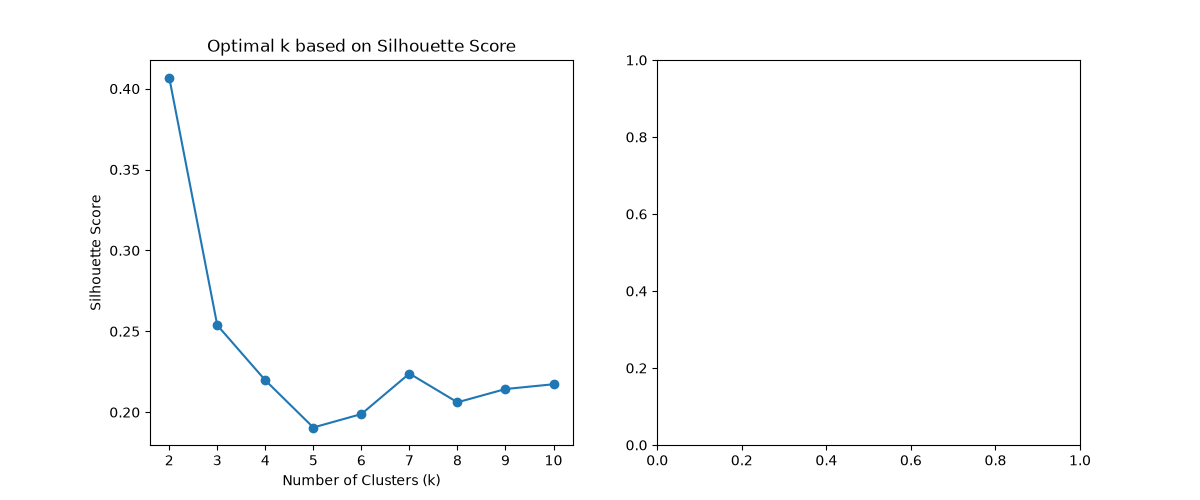
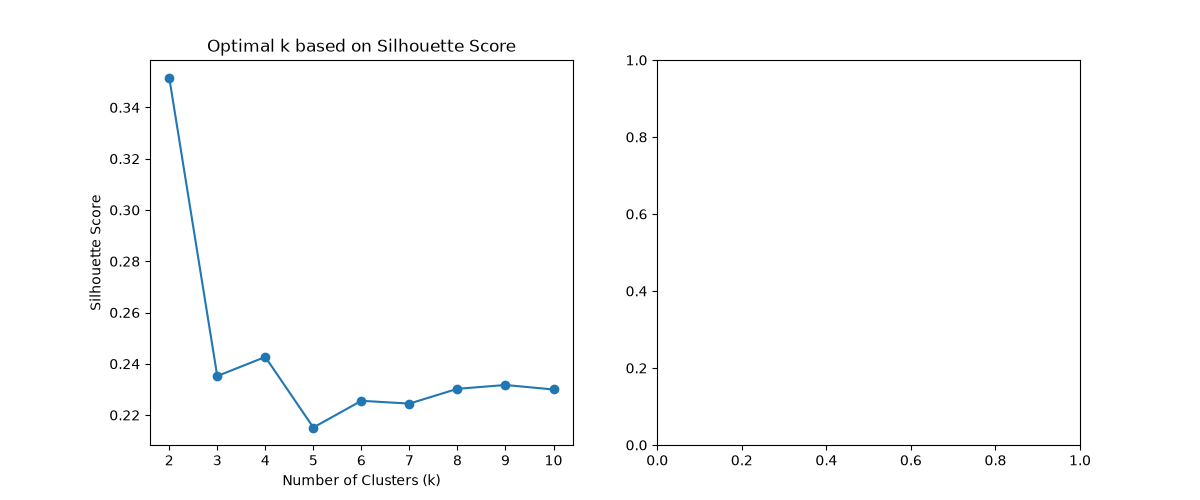
Fix the Streamlit dashboard
The dashboard could not start. It imported `src.recommend`, a module that
does not exist anywhere in the repo, and no function named `recommend` exists
in recommendation_engine.py either. It also read data/players_clustered.parquet,
which no script in this project writes — clustering.py produces
clustered_data.csv — and selected players by positional row index, passing
that integer where a string player_id was expected.

Rewritten against the real engine: build_game_vectors, build_player_vectors
and recommend_for_players, with players selected by id from a dropdown, so
regenerating the dataset cannot silently change which player you are looking
at.

Two tabs matching the project's two halves. Players shows the observable
behaviour, the cluster, the responsible-play flag with the z-scores behind
it, and the recommendations that result. Arena shows the policy comparison,
the learning curves and satisfaction by round.

Neither tab uses st.stop() for its empty-data guard: st.stop() halts the whole
script, so a missing data/ would have blanked the arena tab too. Each tab
renders its own regeneration instructions instead.

Verified by running it: both tabs render, and for a risk-flagged loss-chaser
the banner appears and adjusted_score drops — though 4 of 5 recommendations
are still high-volatility, because the downweight is a soft x0.25 penalty
rather than a filter. The caption says so rather than implying a guarantee.

diff --git a/dashboard/app.py b/dashboard/app.py
@@ -1,17 +1,209 @@
-import streamlit as st
+"""
+Streamlit dashboard: player profiles, recommendations, and the live arena.
+
+Two tabs, matching the project's two halves:
+
+  Players — pick a player, see the behaviour the model actually observes,
+            their cluster, whether the responsible-play model flagged them,
+            and what the cosine engine recommends as a result.
+  Arena   — the online half: how the adaptive recommender compares with its
+            baselines when a population of learning agents plays the live
+            slot machine.
+
+Each tab degrades on its own if the data behind it hasn't been generated —
+deliberately not via st.stop(), which halts the whole script and would blank
+the other tab too.
+
+Run from the repo root:  streamlit run dashboard/app.py
+"""
+
+from __future__ import annotations
+
+import sys
+from pathlib import Path
+
 import pandas as pd
-from recommend import recommend
+import streamlit as st
+
+# src/ modules import each other flatly (`from schema import ...`), so src/
+# itself has to be importable, not just the repo root.
+_ROOT = Path(__file__).resolve().parent.parent
+sys.path.insert(0, str(_ROOT / "src"))
+
+from recommendation_engine import (  # noqa: E402
+    build_game_vectors,
+    build_player_vectors,
+    recommend_for_players,
+)
+
+DATA = _ROOT / "data"
+ARENA = DATA / "arena"
+IMG = _ROOT / "docs" / "img"
+
+st.set_page_config(page_title="Player Behaviour Explorer", layout="wide")
+
+
+@st.cache_data
+def load_offline() -> dict[str, pd.DataFrame] | None:
+    """Everything the offline pipeline writes. None if it hasn't run."""
+    required = ["games.csv", "sessions.csv", "player_features_raw.csv"]
+    if not all((DATA / f).exists() for f in required):
+        return None
+    out = {name.removesuffix(".csv"): pd.read_csv(DATA / name) for name in required}
+    for optional in ["player_risk.csv", "clustered_data.csv", "player_embeddings.csv"]:
+        if (DATA / optional).exists():
+            out[optional.removesuffix(".csv")] = pd.read_csv(DATA / optional)
+    return out
+
+
+@st.cache_data
+def load_arena() -> dict[str, pd.DataFrame] | None:
+    if not (ARENA / "summary.csv").exists():
+        return None
+    out = {"summary": pd.read_csv(ARENA / "summary.csv")}
+    for optional in ["recommendations.csv", "sessions.csv"]:
+        if (ARENA / optional).exists():
+            out[optional.removesuffix(".csv")] = pd.read_csv(ARENA / optional)
+    return out
+
+
+def render_players(data: dict[str, pd.DataFrame]) -> None:
+    features = data["player_features_raw"]
+    risk = data.get("player_risk")
+    clusters = data.get("clustered_data")
+
+    # Selected by player_id, not by row number: the ids are strings, and a
+    # positional index silently means a different player whenever the dataset
+    # is regenerated.
+    personas = sorted(features["persona_id"].unique())
+    chosen = st.sidebar.selectbox("Filter by persona", ["(all)"] + personas)
+    pool = features if chosen == "(all)" else features[features.persona_id == chosen]
+
+    if risk is not None and st.sidebar.checkbox("Only risk-flagged players", value=False):
+        pool = pool[pool.player_id.isin(set(risk.loc[risk.risk_flag, "player_id"]))]
+
+    if pool.empty:
+        st.info("No players match that filter.")
+        return
+
+    player_id = st.sidebar.selectbox("Player", pool["player_id"].tolist())
+    top_n = st.sidebar.slider("Recommendations to show", 3, 10, 5)
+
+    row = features.set_index("player_id").loc[player_id]
+    has_risk = risk is not None and player_id in set(risk.player_id)
+    is_flagged = bool(risk.set_index("player_id").loc[player_id, "risk_flag"]) if has_risk else False
+
+    left, right = st.columns(2)
+
+    with left:
+        st.subheader("Profile")
+        cols = st.columns(3)
+        cols[0].metric("Persona", row["persona_id"])
+        cols[1].metric("Sessions", int(row["n_sessions"]))
+        if clusters is not None and player_id in set(clusters.player_id):
+            cols[2].metric("Cluster", int(clusters.set_index("player_id").loc[player_id, "cluster"]))
+
+        if is_flagged:
+            st.error(
+                "Risk-flagged by `responsible_play.py` — top 10% of the population "
+                "by risk score. High-volatility games are downweighted below."
+            )
+        elif has_risk:
+            st.success("Not risk-flagged.")
+
+        st.caption(
+            "persona_id is ground truth for validation only — no model here takes "
+            "it as an input."
+        )
+        st.dataframe(row.drop(labels=["persona_id"]).rename("value").to_frame())
+
+        if has_risk:
+            st.subheader("Risk components")
+            rrow = risk.set_index("player_id").loc[player_id]
+            st.caption(f"weighted risk score: {rrow['risk_score']:.3f}")
+            st.bar_chart(rrow[[c for c in risk.columns if c.startswith("z_")]].astype(float))
+
+    with right:
+        st.subheader("Recommendations")
+        game_vecs, theme_cols = build_game_vectors(data["games"])
+        player_vecs = build_player_vectors(data["sessions"], data["games"], features, theme_cols)
+        recs = recommend_for_players(player_id, player_vecs, game_vecs, risk, top_n=top_n)
+
+        display = recs[["game_id", "name", "score", "adjusted_score"]].copy()
+        display.insert(2, "volatility", [
+            "high" if h else ("medium" if m else "low")
+            for h, m in zip(recs["vol_high"], recs["vol_medium"])
+        ])
+        st.dataframe(display, hide_index=True)
+
+        if is_flagged:
+            st.caption(
+                "`score` is the raw cosine similarity, `adjusted_score` is after the "
+                "safety downweight. It is a soft penalty (x0.25 for a high-volatility, "
+                "high-multiplier game), not a filter — a game with a large enough "
+                "similarity lead can still rank first."
+            )
+        else:
+            st.caption("No adjustment applied: `adjusted_score` equals `score`.")
+
+
+def render_arena(arena: dict[str, pd.DataFrame]) -> None:
+    st.subheader("Policy comparison")
+    st.caption(
+        "Every policy faces the same agents on the same machine seeds, so a "
+        "difference between rows is caused by the policy. Satisfaction is the "
+        "session-quality reward defined in agents.py, in [0, 1]."
+    )
+    st.dataframe(arena["summary"], hide_index=True)
+
+    if (IMG / "learning_curves.png").exists():
+        st.image(str(IMG / "learning_curves.png"))
+
+    recs = arena.get("recommendations")
+    if recs is None:
+        return
+
+    st.subheader("Satisfaction by round")
+    window = st.slider("Rolling window (rounds)", 1, 15, 5)
+    curve = (
+        recs.groupby(["round", "policy"])["satisfaction"].mean()
+        .unstack("policy").rolling(window, min_periods=1).mean()
+    )
+    st.line_chart(curve)
+    st.caption(
+        "Most of the round-over-round rise is the agents learning their own tastes — "
+        "it happens under random recommendations too, which is why the baselines "
+        "are here."
+    )
+
 
 st.title("Player Behaviour Explorer")
+players_tab, arena_tab = st.tabs(["Players", "Arena (online learning)"])
 
-df = pd.read_parquet("data/players_clustered.parquet")
+with players_tab:
+    offline = load_offline()
+    if offline is None:
+        st.warning(
+            "No dataset found. Generate one first:\n\n"
+            "```bash\n"
+            "python src/generate_synthetic_data.py --seed 42 --out-dir data\n"
+            "python src/feature_engineering.py --data-dir data --out-dir data\n"
+            "python src/responsible_play.py\n"
+            "python src/clustering.py\n"
+            "```"
+        )
+    else:
+        render_players(offline)
 
-player_id = st.number_input("Select Player ID", min_value=0, max_value=len(df)-1, value=0)
-
-st.subheader("Player Profile")
-st.write(df.iloc[player_id])
-
-st.subheader("Recommended Experiences")
-recs = recommend(player_id)
-for name, score in recs:
-    st.write(f"**{name}** — similarity score: {score:.3f}")
+with arena_tab:
+    arena_data = load_arena()
+    if arena_data is None:
+        st.warning(
+            "No arena results found. Run:\n\n"
+            "```bash\n"
+            "python src/play_loop.py --agents-per-persona 8 --rounds 60 "
+            "--seeds 7 11 23 31 47 59\n"
+            "```"
+        )
+    else:
+        render_arena(arena_data)

diff --git a/README.md b/README.md
@@ -16,7 +16,7 @@ portfolio demonstration.
 - Population of learning AI agents that play it and generate data by interacting
 - Adaptive recommender (hybrid LinUCB contextual bandit) that learns online,
   benchmarked against random and static-cosine baselines
-- Interactive dashboard (Streamlit) — *currently broken, see `dashboard/app.py`*
+- Interactive dashboard (Streamlit): player profiles, risk flags, recommendations, arena results
 - Clear architecture and documentation for portfolio presentation
 
 ## Two loops
